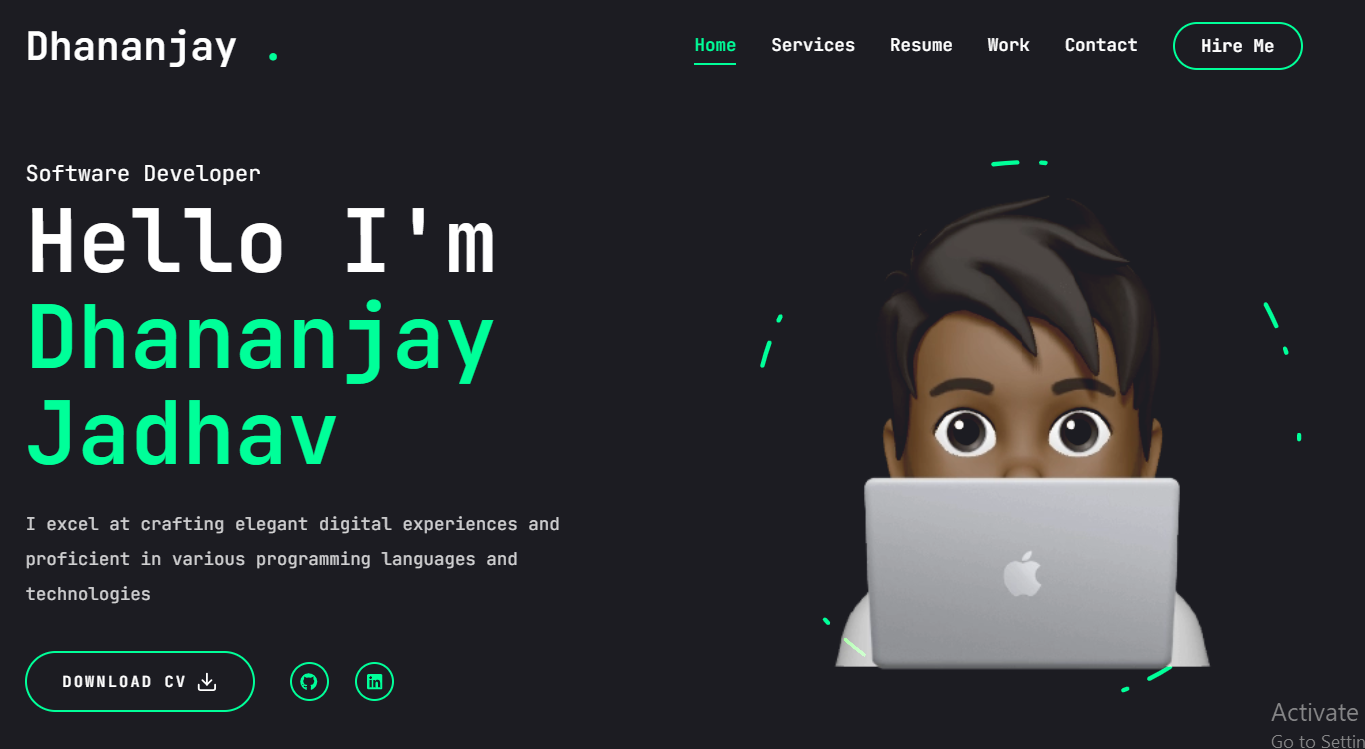
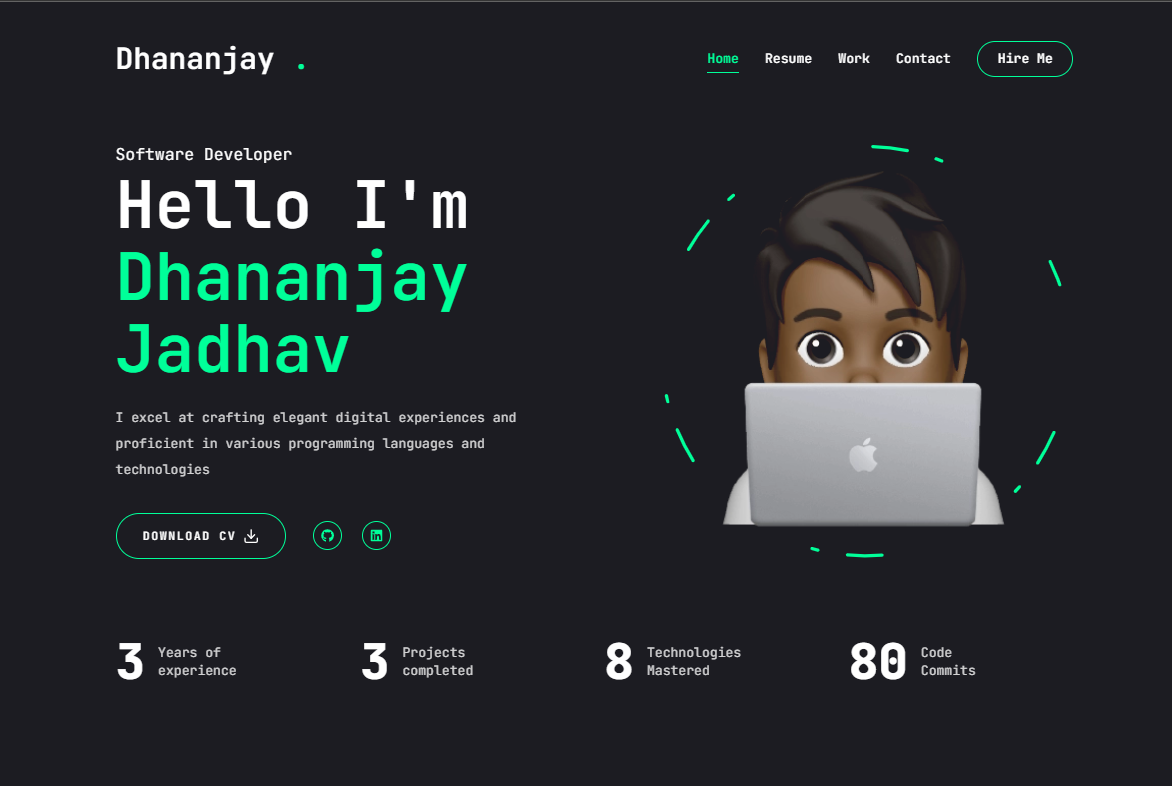
service tab removed

diff --git a/app/page.jsx b/app/page.jsx
@@ -1,8 +1,7 @@
-import { Button } from "@/components/ui/button";
-import { FiDownload } from "react-icons/fi";
 import Socials from "@/components/Socials";
 import Photo from "@/components/Photo";
 import Stats from "@/components/Stats";
+import ResumeButton from "@/components/ResumeButton";
 
 const Home = () => {
   return (
@@ -21,14 +20,7 @@ const Home = () => {
             </p>
             {/* social buttons */}
             <div className="flex flex-col xl:flex-row items-center gap-8 ">
-              <Button
-                varient="outline "
-                size="lg"
-                className="uppercase flex items-center gap-2"
-              >
-                <span>Download CV</span>
-                <FiDownload className="text-xl" />
-              </Button>
+              <ResumeButton />
               <div className="mb-8 xl:mb-0">
                 <Socials
                   containerStyles="flex gap-6"

diff --git a/components/ResumeButton.jsx b/components/ResumeButton.jsx
@@ -1,0 +1,27 @@
+"use client";
+
+import { Button } from "@/components/ui/button";
+import { FiDownload } from "react-icons/fi";
+
+function handleResumeButtonClick() {
+  window.open(
+    "https://drive.google.com/file/d/1OS0BsSINhNlceVH8bY1b5nAcWS7p6RfG/view?usp=sharing",
+    "_blank"
+  );
+}
+
+const ResumeButton = () => {
+  return (
+    <Button
+      varient="outline "
+      size="lg"
+      className="uppercase flex items-center gap-2"
+      onClick={() => handleResumeButtonClick()}
+    >
+      <span>Download CV</span>
+      <FiDownload className="text-xl" />
+    </Button>
+  );
+};
+
+export default ResumeButton;
